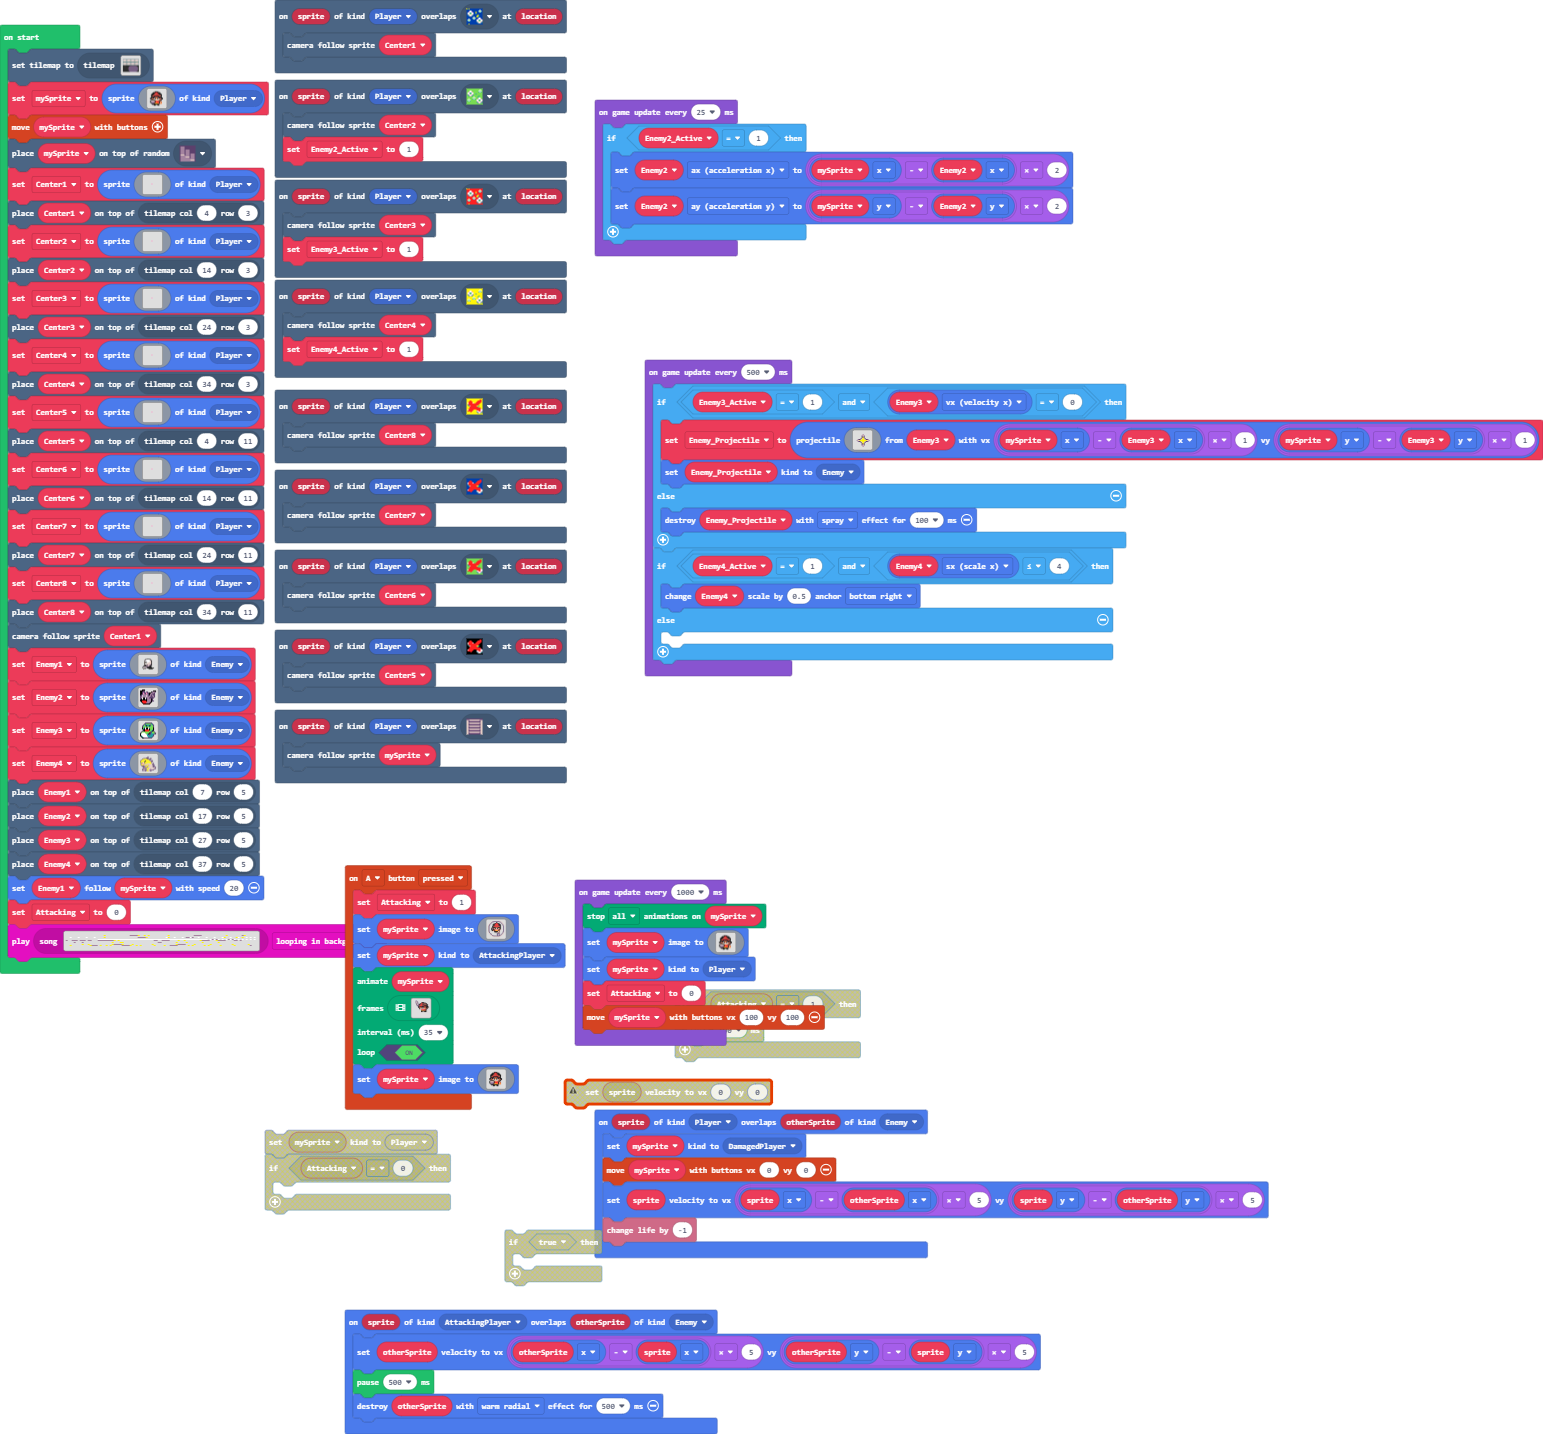
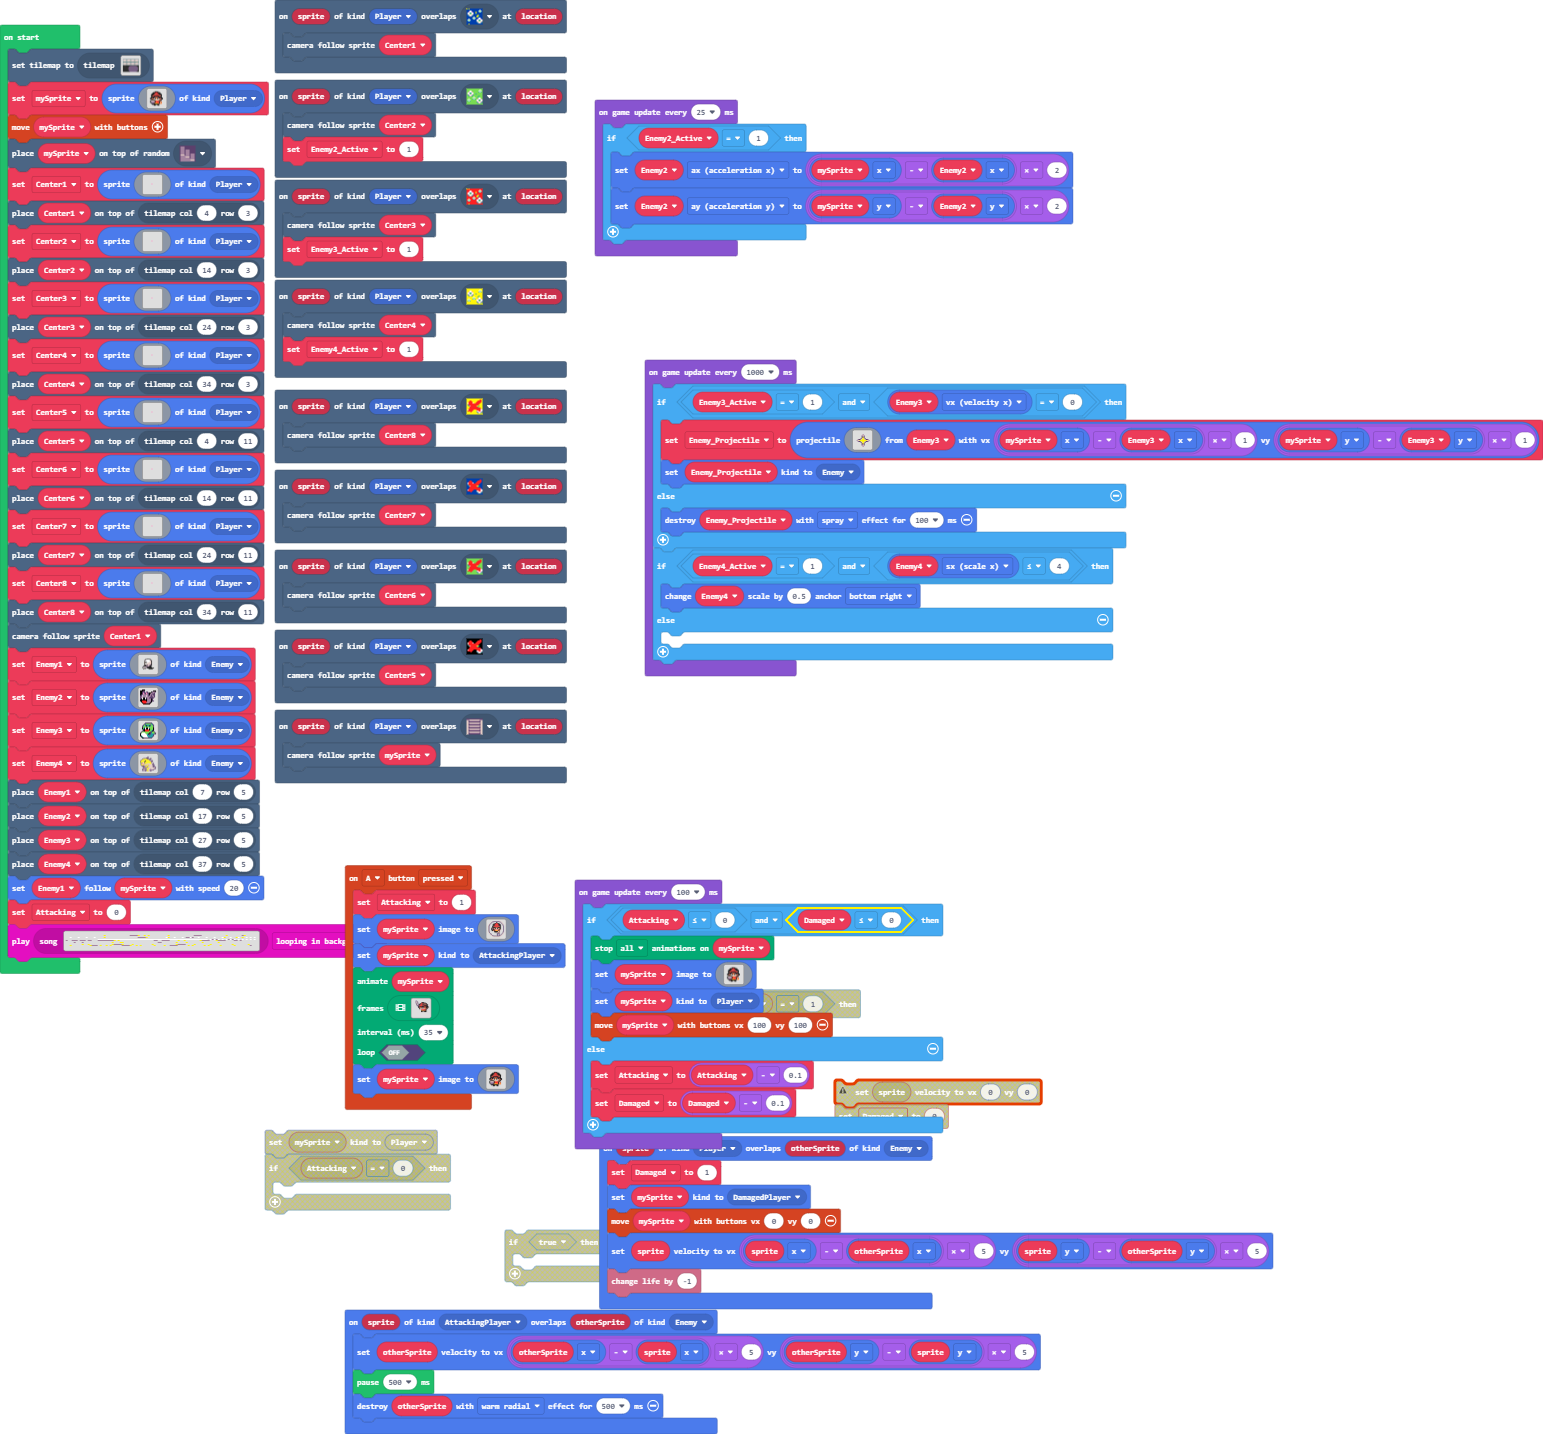
Update main.blocks, main.ts

Changed region(s): [[0.3422, 0.6137, 0.8399, 0.9205], [0.4977, 0.2455, 0.5288, 0.2762], [0.2489, 0.7057, 0.28, 0.7364]]

diff --git a/main.ts b/main.ts
@@ -275,7 +275,7 @@ controller.A.onEvent(ControllerButtonEvent.Pressed, function () {
         ........................
         `],
     35,
-    true
+    false
     )
     mySprite.setImage(img`
         . . . . . . . . . . . . . . . . 
@@ -319,12 +319,14 @@ scene.onOverlapTile(SpriteKind.Player, sprites.dungeon.stairSouth, function (spr
     scene.cameraFollowSprite(mySprite)
 })
 sprites.onOverlap(SpriteKind.Player, SpriteKind.Enemy, function (sprite, otherSprite) {
+    Damaged = 1
     mySprite.setKind(SpriteKind.DamagedPlayer)
     controller.moveSprite(mySprite, 0, 0)
     sprite.setVelocity((sprite.x - otherSprite.x) * 5, (sprite.y - otherSprite.y) * 5)
     info.changeLifeBy(-1)
 })
 let Enemy_Projectile: Sprite = null
+let Damaged = 0
 let Enemy3_Active = 0
 let Enemy2_Active = 0
 let Enemy4_Active = 0
@@ -616,32 +618,6 @@ game.onUpdateInterval(25, function () {
     }
 })
 game.onUpdateInterval(1000, function () {
-    animation.stopAnimation(animation.AnimationTypes.All, mySprite)
-    mySprite.setImage(img`
-        . . . . . . . . . . . . . . . . 
-        . . . . . . f f f f . . . . . . 
-        . . . . f f f 2 2 f f f . . . . 
-        . . . f f f 2 2 2 2 f f f . . . 
-        . . f f f e e e e e e f f f . . 
-        . . f f e 2 2 2 2 2 2 e e f . . 
-        . . f e 2 f f f f f f 2 e f . . 
-        . . f f f f e e e e f f f f . . 
-        . f f e f b f 4 4 f b f e f f . 
-        . f e e 4 1 f d d f 1 4 e e f . 
-        . . f f f f d d d d d e e f . . 
-        . f d d d d f 4 4 4 e e f . . . 
-        . f b b b b f 2 2 2 2 f 4 e . . 
-        . f b b b b f 2 2 2 2 f d 4 . . 
-        . . f c c f 4 5 5 4 4 f 4 4 . . 
-        . . . f f f f f f f f . . . . . 
-        . . . . . f f . . f f . . . . . 
-        . . . . . . . . . . . . . . . . 
-        `)
-    mySprite.setKind(SpriteKind.Player)
-    Attacking = 0
-    controller.moveSprite(mySprite, 100, 100)
-})
-game.onUpdateInterval(500, function () {
     if (Enemy3_Active == 1 && Enemy3.vx == 0) {
         Enemy_Projectile = sprites.createProjectileFromSprite(img`
             . . . . . . . . . . . . . . . . 
@@ -669,5 +645,35 @@ game.onUpdateInterval(500, function () {
         Enemy4.changeScale(0.5, ScaleAnchor.BottomRight)
     } else {
     	
+    }
+})
+game.onUpdateInterval(100, function () {
+    if (Attacking <= 0 && Damaged <= 0) {
+        animation.stopAnimation(animation.AnimationTypes.All, mySprite)
+        mySprite.setImage(img`
+            . . . . . . . . . . . . . . . . 
+            . . . . . . f f f f . . . . . . 
+            . . . . f f f 2 2 f f f . . . . 
+            . . . f f f 2 2 2 2 f f f . . . 
+            . . f f f e e e e e e f f f . . 
+            . . f f e 2 2 2 2 2 2 e e f . . 
+            . . f e 2 f f f f f f 2 e f . . 
+            . . f f f f e e e e f f f f . . 
+            . f f e f b f 4 4 f b f e f f . 
+            . f e e 4 1 f d d f 1 4 e e f . 
+            . . f f f f d d d d d e e f . . 
+            . f d d d d f 4 4 4 e e f . . . 
+            . f b b b b f 2 2 2 2 f 4 e . . 
+            . f b b b b f 2 2 2 2 f d 4 . . 
+            . . f c c f 4 5 5 4 4 f 4 4 . . 
+            . . . f f f f f f f f . . . . . 
+            . . . . . f f . . f f . . . . . 
+            . . . . . . . . . . . . . . . . 
+            `)
+        mySprite.setKind(SpriteKind.Player)
+        controller.moveSprite(mySprite, 100, 100)
+    } else {
+        Attacking = Attacking - 0.1
+        Damaged = Damaged - 0.1
     }
 })
